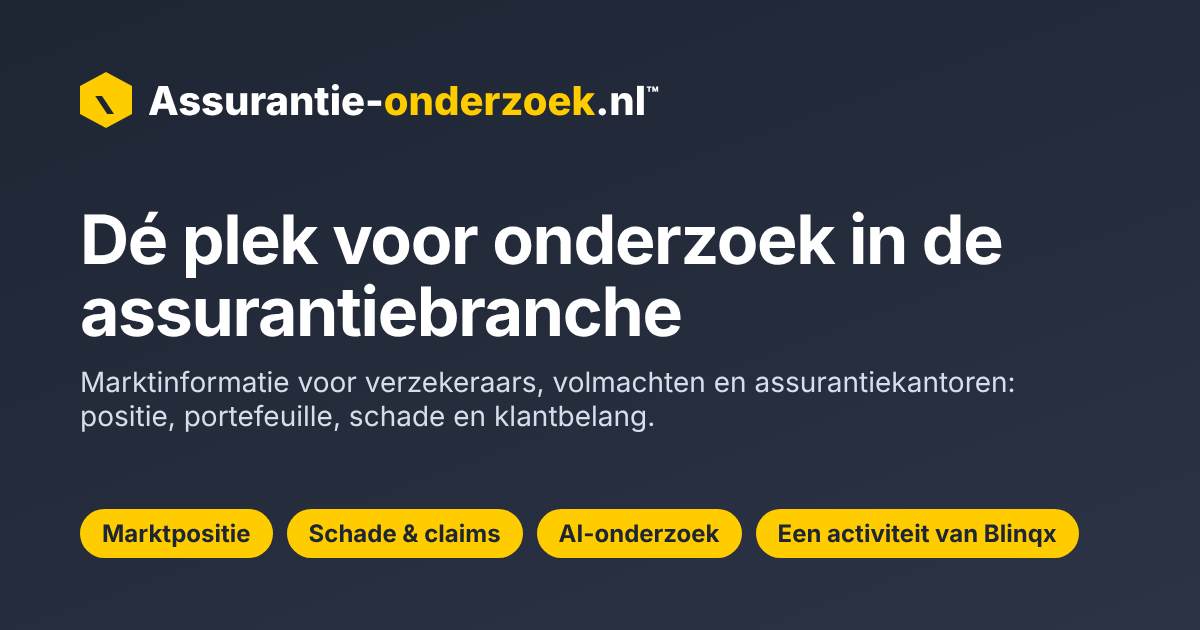
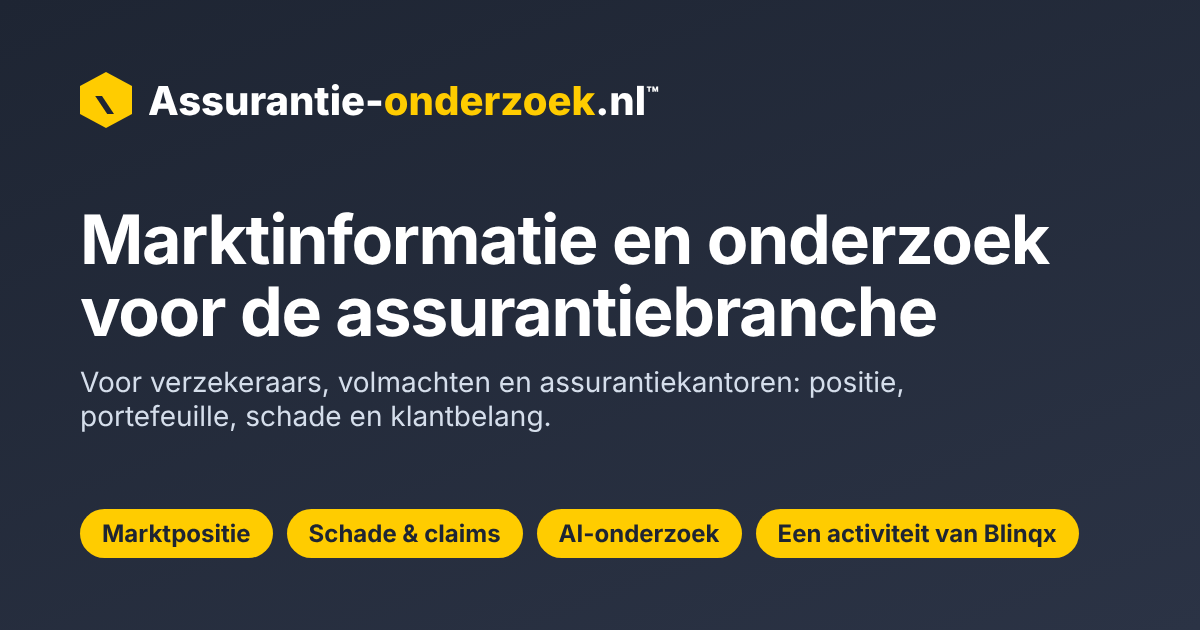
Juridische aanpassingen NL en EN
- Overeenkomsten, belangenafweging, DPIA en governance gemarkeerd als
  in voorbereiding; geen verwerking van klantdata voor onderzoek vóór afronding
- Gebruiksbeperking: geen loyaliteitsbeprijzing, margepersonalisatie of
  sturing van adviseurs (aanbod, FAQ, over ons, methodologie)
- Claims afgezwakt en onderbouwd: nieuwe kop, 'deelnemende kantoren',
  bereik vermeld in elk rapport; deelafbeelding aangepast
- Verwijzing naar NCRB verwijderd
- Privacyverklaring: doorgifte naar GitHub (VS) en waarborgen vermeld

Claude-Session: https://claude.ai/code/session_01XDsUczSqPzQvVV9yR37FUD

Changed region(s): [[0.0617, 0.3317, 0.8942, 0.5429], [0.0617, 0.573, 0.8325, 0.6937]]

diff --git a/en/index.html b/en/index.html
@@ -313,9 +313,9 @@ h1,h2,h3{overflow-wrap:break-word;hyphens:auto}
 <div class="hero">
   <div class="wrap">
     <span class="eyebrow">Market intelligence and research for the insurance sector</span>
-    <h1>The place to find everything about the Dutch insurance market.</h1>
+    <h1>Insight into the Dutch insurance market, from the advice channel.</h1>
     <p class="lead" style="color:#fff;font-weight:600;margin-bottom:12px">This is where you carry out benchmark research and analysis: see where you stand, by month, by line of business, by insurance intermediary and by customer profile. From quote and policy to claim notification and settlement.</p>
-    <p class="lead"><strong style="color:#ffcc00">We see quotes, applications, policies, policy changes and claim notifications from the intermediary channel</strong>, because insurance intermediaries and MGAs work with Blinqx's advice, administration and CRM software<span class="pn">, such as eBlinqx, DIAS, Premievergelijk and Blinqx Connect CRM</span>. Assurantie-onderzoek.nl is the research agency of Blinqx. We turn that data into management information: a one-off report, ongoing insight or bespoke research, including on claims handling and claims investigation.</p>
+    <p class="lead"><strong style="color:#ffcc00">We gain insight into quotes, applications, policies, policy changes and claim notifications from participating intermediaries and MGAs</strong>, which work with Blinqx's advice, administration and CRM software<span class="pn">, such as eBlinqx, DIAS, Premievergelijk and Blinqx Connect CRM</span>. Assurantie-onderzoek.nl is the research agency of Blinqx. We turn that data into management information: a one-off report, ongoing insight or bespoke research, including on claims handling and claims investigation. Every report states its coverage: the number of intermediaries, policies and claim notifications it is based on.</p>
     <div class="ctas">
       <a href="#aanbod" class="btn">View our products</a>
       <a href="sample-report.html" class="btn ghost">Sample report</a>
@@ -407,7 +407,7 @@ h1,h2,h3{overflow-wrap:break-word;hyphens:auto}
   <div class="wrap">
     <span class="eyebrow">Data from the source</span>
     <h2>Direct insight into quotes, policies and claims</h2>
-    <p class="intro">Assurantie-onderzoek.nl is an activity of Blinqx. Insurance intermediaries and MGAs use Blinqx's advice, administration and CRM software<span class="pn">: from Premievergelijk and Blinqx Connect CRM to eBlinqx Verzekering and eBlinqx Volmacht (formerly DIAS)</span>. This means we see what happens in the advice process before an application reaches an insurer, what becomes an in-force policy, and what happens when the customer reports a claim. What you receive is always aggregated and shows your own position against the market.</p>
+    <p class="intro">Assurantie-onderzoek.nl is an activity of Blinqx. Many insurance intermediaries and MGAs use Blinqx's advice, administration and CRM software<span class="pn">: from Premievergelijk and Blinqx Connect CRM to eBlinqx Verzekering and eBlinqx Volmacht (formerly DIAS)</span>. For participating intermediaries and MGAs, this means we see what happens in the advice process before an application reaches an insurer, what becomes an in-force policy, and what happens when the customer reports a claim. What you receive is always aggregated and shows your own position against the market.</p>
     <div class="flow" aria-label="From customer to insurer">
       <div class="step">Customer</div><div class="arr">→</div>
       <div class="step">Insurance intermediary</div><div class="arr">→</div>
@@ -593,7 +593,7 @@ h1,h2,h3{overflow-wrap:break-word;hyphens:auto}
       <div class="card feat"><div class="num">2</div><h3>Investigation monitor</h3><p>How often you start an investigation into the cause of loss or a claims investigation, in which lines of business and at which claim amounts, and how often that leads to a different outcome. Always at portfolio level.</p></div>
       <div class="card feat"><div class="num">3</div><h3>Signals at portfolio level</h3><p>Patterns in repeat claims, notifications shortly after the policy start date and unusual claims frequencies per segment. A tool for your fraud policy, not a judgement on an individual claim.</p></div>
     </div>
-    <div class="callout"><strong>Scope.</strong> Assurantie-onderzoek.nl does not carry out personal investigations into individual policyholders and does not give a judgement on individual claims. We provide aggregated insights into the claims and investigation process. For investigation in an individual file, we refer you to a licensed investigation agency, for example for digital fact-finding in open sources (such as <a href="https://www.ncrb.nl/nl/diensten/verzekeringsonderzoek/" target="_blank" rel="noopener">NCRB</a>), or to a loss adjuster.</div>
+    <div class="callout"><strong>Scope.</strong> Assurantie-onderzoek.nl does not carry out personal investigations into individual policyholders and does not give a judgement on individual claims. We provide aggregated insights into the claims and investigation process. For investigation in an individual file, we refer you to a licensed investigation agency, or to a loss adjuster.</div>
     <p class="rub"><a class="btn offerte" href="?onderwerp=Claims%20benchmark#contact" data-offerte="Claims benchmark">Request a quote for a claims benchmark</a></p>
   </div>
 </section>
@@ -715,6 +715,7 @@ h1,h2,h3{overflow-wrap:break-word;hyphens:auto}
         <a class="btn offerte" href="?onderwerp=Network%20subscription#contact" data-offerte="Network subscription">Request a quote</a>
       </div>
     </div>
+    <div class="callout"><strong>Terms of use.</strong> Our insights are intended to support customer interest. The licence states that clients will not use them for loyalty penalties (higher premiums for long-standing customers without a risk-based reason), for margin personalisation, or to steer or reward advisers based on their production with an insurer.</div>
   </div>
 </section>
 
@@ -778,7 +779,7 @@ h1,h2,h3{overflow-wrap:break-word;hyphens:auto}
     </div>
     <h3 style="margin:32px 0 12px;font-size:1.15rem">Frequently asked questions from procurement and compliance</h3>
     <div class="faq">
-      <details><summary>What may we do with the data and reports?</summary><p>Usage is set out in a licence agreement with the quote. As standard, this is for internal use within your organisation, without further distribution to third parties.</p></details>
+      <details><summary>What may we do with the data and reports?</summary><p>Usage is set out in a licence agreement with the quote. As standard, this is for internal use within your organisation, without further distribution to third parties. Use for loyalty penalties, margin personalisation or steering advisers is excluded.</p></details>
       <details><summary>Do you investigate individual claims or policyholders?</summary><p>No. We provide aggregated insights into the claims and investigation process. Personal investigation in an individual file is outside the scope of our services.</p></details>
       <details><summary>How is information security arranged?</summary><p>With the quote, we complete your security and supplier questionnaire, and explain how hosting, access and logging are set up.</p></details>
       <details><summary>Do we get a data processing agreement?</summary><p>Our reports do not contain personal data of consumers. For the contact details of your employees, we conclude a data processing agreement where necessary.</p></details>

diff --git a/index.html b/index.html
@@ -310,9 +310,9 @@ h1,h2,h3{overflow-wrap:break-word;hyphens:auto}
 <div class="hero">
   <div class="wrap">
     <span class="eyebrow">Marktinformatie en onderzoek voor de assurantiebranche</span>
-    <h1>Dé plek waar u alles vindt over de assurantiemarkt.</h1>
+    <h1>Inzicht in de assurantiemarkt, vanuit het advies.</h1>
     <p class="lead" style="color:#fff;font-weight:600;margin-bottom:12px">Hier doet u benchmarkonderzoek en analyses: zie waar u staat, per maand, per branche, per assurantiekantoor en per klantprofiel. Van offerte en polis tot schademelding en afwikkeling.</p>
-    <p class="lead"><strong style="color:#ffcc00">Wij zien offertes, aanvragen, polissen, mutaties en schademeldingen uit het intermediaire kanaal</strong>, omdat assurantiekantoren en volmachtbedrijven werken met de advies-, administratie- en CRM-software van Blinqx<span class="pn">, zoals eBlinqx, DIAS, Premievergelijk en Blinqx Connect CRM</span>. Assurantie-onderzoek.nl is het onderzoeksbureau van Blinqx. Wij maken van die data stuurinformatie: een eenmalig rapport, doorlopend inzicht of onderzoek op maat, ook over schadeafhandeling en claimonderzoek.</p>
+    <p class="lead"><strong style="color:#ffcc00">Wij krijgen inzicht in offertes, aanvragen, polissen, mutaties en schademeldingen van deelnemende kantoren en volmachten</strong>, die werken met de advies-, administratie- en CRM-software van Blinqx<span class="pn">, zoals eBlinqx, DIAS, Premievergelijk en Blinqx Connect CRM</span>. Assurantie-onderzoek.nl is het onderzoeksbureau van Blinqx. Wij maken van die data stuurinformatie: een eenmalig rapport, doorlopend inzicht of onderzoek op maat, ook over schadeafhandeling en claimonderzoek. Elk rapport vermeldt het bereik: het aantal kantoren, polissen en schademeldingen waarop het is gebaseerd.</p>
     <div class="ctas">
       <a href="#aanbod" class="btn">Bekijk het aanbod</a>
       <a href="voorbeeldrapport.html" class="btn ghost">Voorbeeldrapport</a>
@@ -404,7 +404,7 @@ h1,h2,h3{overflow-wrap:break-word;hyphens:auto}
   <div class="wrap">
     <span class="eyebrow">Data uit de bron</span>
     <h2>Direct inzicht in offertes, polissen en schades</h2>
-    <p class="intro">Assurantie-onderzoek.nl is een activiteit van Blinqx. Assurantiekantoren en volmachtbedrijven gebruiken de advies-, administratie- en CRM-software van Blinqx<span class="pn">: van Premievergelijk en Blinqx Connect CRM tot eBlinqx Verzekering en eBlinqx Volmacht (voorheen DIAS)</span>. Daardoor zien wij wat er in het advies gebeurt voordat een aanvraag bij een verzekeraar binnenkomt, wat er een lopende polis wordt, en wat er gebeurt als de klant schade meldt. Wat u ontvangt is altijd geaggregeerd en laat uw eigen positie tegenover de markt zien.</p>
+    <p class="intro">Assurantie-onderzoek.nl is een activiteit van Blinqx. Veel assurantiekantoren en volmachtbedrijven gebruiken de advies-, administratie- en CRM-software van Blinqx<span class="pn">: van Premievergelijk en Blinqx Connect CRM tot eBlinqx Verzekering en eBlinqx Volmacht (voorheen DIAS)</span>. Bij deelnemende kantoren en volmachten zien wij daardoor wat er in het advies gebeurt voordat een aanvraag bij een verzekeraar binnenkomt, wat er een lopende polis wordt, en wat er gebeurt als de klant schade meldt. Wat u ontvangt is altijd geaggregeerd en laat uw eigen positie tegenover de markt zien.</p>
     <div class="flow" aria-label="Van klant tot verzekeraar">
       <div class="step">Klant</div><div class="arr">→</div>
       <div class="step">Assurantiekantoor</div><div class="arr">→</div>
@@ -590,7 +590,7 @@ h1,h2,h3{overflow-wrap:break-word;hyphens:auto}
       <div class="card feat"><div class="num">2</div><h3>Onderzoeksmonitor</h3><p>Hoe vaak u een toedracht- of claimonderzoek start, in welke branches en bij welke schadebedragen, en hoe vaak dat tot een andere uitkomst leidt. Altijd op portefeuilleniveau.</p></div>
       <div class="card feat"><div class="num">3</div><h3>Signalen op portefeuilleniveau</h3><p>Patronen in herhaalclaims, meldingen kort na ingang van de polis en afwijkende schadefrequenties per segment. Een hulpmiddel voor uw fraudebeleid, geen oordeel over een individuele claim.</p></div>
     </div>
-    <div class="callout"><strong>Afbakening.</strong> Assurantie-onderzoek.nl doet geen persoonlijk onderzoek naar individuele verzekerden en geeft geen oordeel over individuele claims. Wij leveren geaggregeerde inzichten over het schade- en onderzoeksproces. Voor onderzoek in een individueel dossier verwijzen wij naar een vergunninghoudend onderzoeksbureau, bijvoorbeeld voor digitaal feitenonderzoek in open bronnen (zoals <a href="https://www.ncrb.nl/nl/diensten/verzekeringsonderzoek/" target="_blank" rel="noopener">NCRB</a>), of naar een schade-expert.</div>
+    <div class="callout"><strong>Afbakening.</strong> Assurantie-onderzoek.nl doet geen persoonlijk onderzoek naar individuele verzekerden en geeft geen oordeel over individuele claims. Wij leveren geaggregeerde inzichten over het schade- en onderzoeksproces. Voor onderzoek in een individueel dossier verwijzen wij naar een vergunninghoudend onderzoeksbureau, of naar een schade-expert.</div>
     <p class="rub"><a class="btn offerte" href="?onderwerp=Schadebenchmark#contact" data-offerte="Schadebenchmark">Offerte aanvragen voor een schadebenchmark</a></p>
   </div>
 </section>
@@ -712,6 +712,7 @@ h1,h2,h3{overflow-wrap:break-word;hyphens:auto}
         <a class="btn offerte" href="?onderwerp=Netwerkabonnement#contact" data-offerte="Netwerkabonnement">Offerte aanvragen</a>
       </div>
     </div>
+    <div class="callout"><strong>Gebruiksvoorwaarden.</strong> Onze inzichten zijn bedoeld om het klantbelang te onderbouwen. In de licentie leggen we vast dat afnemers ze niet gebruiken voor loyaliteitsbeprijzing (hogere premies voor trouwe klanten zonder risicogrond), voor margepersonalisatie, of om adviseurs te sturen of te belonen op basis van hun productie bij een maatschappij.</div>
   </div>
 </section>
 
@@ -775,7 +776,7 @@ h1,h2,h3{overflow-wrap:break-word;hyphens:auto}
     </div>
     <h3 style="margin:32px 0 12px;font-size:1.15rem">Veelgestelde vragen van inkoop en compliance</h3>
     <div class="faq">
-      <details><summary>Wat mogen wij met de data en rapporten doen?</summary><p>Het gebruik leggen we vast in een licentieovereenkomst bij de offerte. Standaard is dat voor intern gebruik binnen uw organisatie, zonder verdere verspreiding aan derden.</p></details>
+      <details><summary>Wat mogen wij met de data en rapporten doen?</summary><p>Het gebruik leggen we vast in een licentieovereenkomst bij de offerte. Standaard is dat voor intern gebruik binnen uw organisatie, zonder verdere verspreiding aan derden. Gebruik voor loyaliteitsbeprijzing, margepersonalisatie of het sturen van adviseurs is uitgesloten.</p></details>
       <details><summary>Doet u onderzoek naar individuele claims of verzekerden?</summary><p>Nee. Wij leveren geaggregeerde inzichten over het schade- en onderzoeksproces. Persoonlijk onderzoek in een individueel dossier valt buiten ons aanbod.</p></details>
       <details><summary>Hoe is de informatiebeveiliging geregeld?</summary><p>Bij de offerte vullen wij uw security- en leveranciersvragenlijst in, en lichten we toe hoe hosting, toegang en logging zijn ingericht.</p></details>
       <details><summary>Krijgen wij een verwerkersovereenkomst?</summary><p>Onze rapportages bevatten geen persoonsgegevens van consumenten. Voor de contactgegevens van uw medewerkers sluiten we waar nodig een verwerkersovereenkomst af.</p></details>

diff --git a/over-ons.html b/over-ons.html
@@ -15,6 +15,7 @@ html.ok #gate{display:none!important}
 #gate button{width:100%;font:inherit;font-weight:700;background:#ffcc00;color:#1e2533;border:0;border-radius:999px;padding:11px 16px;cursor:pointer}
 #gate .gerr{color:#c0392b;font-size:.88rem;min-height:1.2em;margin:10px 0 0}
 .tm{font-size:.5em;vertical-align:super;line-height:0;margin-left:1px;font-weight:700}
+.concept{border-left:4px solid #e0a800;background:var(--orange-soft)!important}
 </style>
 <script>try{if(sessionStorage.getItem('ao_ok')==='1')document.documentElement.classList.add('ok')}catch(e){}</script>
 
@@ -295,11 +296,11 @@ h1,h2,h3{overflow-wrap:break-word;hyphens:auto}
   <p>Assurantie-onderzoek.nl is de zustersite van <a href="https://jeroen-o.github.io/hypotheekonderzoek.nl/" target="_blank" rel="noopener">hypotheekonderzoek.nl</a>, dat hetzelfde doet voor de hypotheekmarkt.</p>
 
   <h2>Ons doel</h2>
-  <p class="box" style="font-size:1.15rem;font-weight:700;color:var(--navy)">Dé plek waar u alles vindt over de assurantiemarkt, en waar u volledig benchmarkonderzoek en analyses kunt doen.</p>
+  <p class="box" style="font-size:1.15rem;font-weight:700;color:var(--navy)">Betrouwbare marktinformatie over de assurantiemarkt, vanuit het advies, waarmee u uw positie onderbouwd kunt vergelijken.</p>
 
   <h2>Hoe wij werken</h2>
   <div class="team" style="grid-template-columns:repeat(2,1fr)" id="werkwijze">
-    <div class="card cat"><h3>Onafhankelijk</h3><ul><li>Het onderzoeksteam werkt los van de commerciële afdelingen van Blinqx</li><li>Geen afnemer krijgt voorrang of invloed op de uitkomsten van een ander</li><li>Een onafhankelijke adviesraad toetst onze methodologie en publicaties (zie <a href="#governance">governance</a>)</li></ul></div>
+    <div class="card cat"><h3>Onafhankelijk</h3><ul><li>Het onderzoeksteam werkt los van de commerciële afdelingen van Blinqx</li><li>Geen afnemer krijgt voorrang of invloed op de uitkomsten van een ander</li><li>Een onafhankelijke adviesraad gaat onze methodologie en publicaties toetsen (in voorbereiding, zie <a href="#governance">governance</a>)</li></ul></div>
     <div class="card cat"><h3>Zorgvuldig met data</h3><ul><li>Alleen geaggregeerde cijfers, niet herleidbaar tot klanten of adviseurs</li><li>Geen medische of strafrechtelijke gegevens</li><li>Vastgelegde methodologie en datakwaliteitscontroles</li></ul></div>
     <div class="card cat"><h3>Eerlijke concurrentie</h3><ul><li>U ziet uw eigen positie, nooit cijfers van individuele concurrenten</li><li>Vergelijkingsgroepen van minstens vijf partijen</li><li>Premies alleen als bandbreedte en achteraf</li></ul></div>
     <div class="card cat"><h3>Iets terug voor kantoren</h3><ul><li>Kantoren krijgen inzicht in hun eigen portefeuille via het adviseursabonnement</li><li>Uitkomsten van de adviseursenquête worden met de deelnemers gedeeld</li><li>Marktbrede trends in de openbare Assurantiemonitor</li></ul></div>
@@ -307,6 +308,7 @@ h1,h2,h3{overflow-wrap:break-word;hyphens:auto}
   <p style="margin-top:14px"><a href="methodologie.html">Lees onze methodologie</a> · <a href="regelgeving.html">Regelgeving &amp; toezicht</a> · <a href="index.html#methode">Mededinging en privacy</a></p>
 
   <h2 id="governance">Governance</h2>
+  <p class="box concept"><strong>Status.</strong> De overeenkomsten met deelnemende kantoren en volmachten, de belangenafweging, de DPIA en de governance hieronder (adviesraad, privacy officer, compliance officer) zijn in voorbereiding. Wij leveren pas rapportages op basis van klantdata als deze zijn afgerond.</p>
   <p>Assurantie-onderzoek.nl werkt met data uit de software die Blinqx levert aan kantoren en volmachten, en verkoopt inzichten aan verzekeraars. Daarom hebben we de onafhankelijkheid, de omgang met data en de mededinging vast georganiseerd.</p>
   <div class="tablewrap"><table class="eba">
     <thead><tr><th>Orgaan of rol</th><th>Taak</th></tr></thead>
@@ -320,6 +322,7 @@ h1,h2,h3{overflow-wrap:break-word;hyphens:auto}
   </table></div>
   <h3>Vaste afspraken</h3>
   <ul>
+    <li><b>Gebruiksbeperking.</b> Afnemers mogen onze inzichten niet gebruiken voor loyaliteitsbeprijzing, margepersonalisatie of het sturen en belonen van adviseurs. Dit staat in de licentie.</li>
     <li><b>Scheiding van functies.</b> Commerciële teams van Blinqx hebben geen toegang tot rapportages van afnemers of tot de onderliggende data.</li>
     <li><b>Geen invloed van afnemers.</b> Een verzekeraar kan de uitkomsten, de vergelijkingsgroepen of de methodologie niet beïnvloeden, en krijgt geen inzage in rapportages van andere afnemers.</li>
     <li><b>Geen invloed op het advies.</b> Onze inzichten worden niet gebruikt om adviseurs in de software of in de premievergelijking richting een maatschappij te sturen. Er is geen vergoeding per aanvraag, polis of kantoor.</li>

diff --git a/en/about.html b/en/about.html
@@ -15,6 +15,7 @@ html.ok #gate{display:none!important}
 #gate button{width:100%;font:inherit;font-weight:700;background:#ffcc00;color:#1e2533;border:0;border-radius:999px;padding:11px 16px;cursor:pointer}
 #gate .gerr{color:#c0392b;font-size:.88rem;min-height:1.2em;margin:10px 0 0}
 .tm{font-size:.5em;vertical-align:super;line-height:0;margin-left:1px;font-weight:700}
+.concept{border-left:4px solid #e0a800;background:var(--orange-soft)!important}
 </style>
 <script>try{if(sessionStorage.getItem('ao_ok')==='1')document.documentElement.classList.add('ok')}catch(e){}</script>
 
@@ -296,11 +297,11 @@ h1,h2,h3{overflow-wrap:break-word;hyphens:auto}
   <p>Assurantie-onderzoek.nl is the sister site of <a href="https://jeroen-o.github.io/hypotheekonderzoek.nl/" target="_blank" rel="noopener">hypotheekonderzoek.nl</a>, which does the same for the mortgage market.</p>
 
   <h2>Our aim</h2>
-  <p class="box" style="font-size:1.15rem;font-weight:700;color:var(--navy)">The place where you find everything about the insurance market, and where you can carry out full benchmark research and analyses.</p>
+  <p class="box" style="font-size:1.15rem;font-weight:700;color:var(--navy)">Reliable market information on the insurance market, from the advice channel, so you can compare your position on a sound basis.</p>
 
   <h2>How we work</h2>
   <div class="team" style="grid-template-columns:repeat(2,1fr)" id="werkwijze">
-    <div class="card cat"><h3>Independent</h3><ul><li>The research team works separately from the commercial departments of Blinqx</li><li>No client is given priority over, or influence on, the results of another</li><li>An independent advisory board reviews our methodology and publications (see <a href="#governance">governance</a>)</li></ul></div>
+    <div class="card cat"><h3>Independent</h3><ul><li>The research team works separately from the commercial departments of Blinqx</li><li>No client is given priority over, or influence on, the results of another</li><li>An independent advisory board will review our methodology and publications (in preparation, see <a href="#governance">governance</a>)</li></ul></div>
     <div class="card cat"><h3>Careful with data</h3><ul><li>Aggregated figures only, not traceable to customers or advisers</li><li>No medical or criminal-record data</li><li>Documented methodology and data quality checks</li></ul></div>
     <div class="card cat"><h3>Fair competition</h3><ul><li>You see your own position, never figures of individual competitors</li><li>Comparison groups of at least five parties</li><li>Premiums only as a range and after the fact</li></ul></div>
     <div class="card cat"><h3>Something in return for intermediaries</h3><ul><li>Intermediaries get insight into their own portfolio through the adviser subscription</li><li>Results of the adviser survey are shared with the participants</li><li>Market-wide trends in the public Insurance Monitor</li></ul></div>
@@ -308,6 +309,7 @@ h1,h2,h3{overflow-wrap:break-word;hyphens:auto}
   <p style="margin-top:14px"><a href="methodology.html">Read our methodology</a> · <a href="regulation.html">Regulation &amp; supervision</a> · <a href="index.html#methode">Competition and privacy</a></p>
 
   <h2 id="governance">Governance</h2>
+  <p class="box concept"><strong>Status.</strong> The agreements with participating intermediaries and MGAs, the balancing test, the DPIA and the governance below (advisory board, privacy officer, competition compliance officer) are in preparation. We will only deliver reports based on customer data once these are in place.</p>
   <p>Assurantie-onderzoek.nl works with data from the software that Blinqx supplies to intermediaries and MGAs, and sells insights to insurers. That is why we have put firm arrangements in place for independence, the handling of data and competition.</p>
   <div class="tablewrap"><table class="eba">
     <thead><tr><th>Body or role</th><th>Responsibility</th></tr></thead>
@@ -321,6 +323,7 @@ h1,h2,h3{overflow-wrap:break-word;hyphens:auto}
   </table></div>
   <h3>Standing arrangements</h3>
   <ul>
+    <li><b>Use restriction.</b> Clients may not use our insights for loyalty penalties, margin personalisation or steering and rewarding advisers. This is set out in the licence.</li>
     <li><b>Separation of functions.</b> Commercial teams of Blinqx have no access to client reports or to the underlying data.</li>
     <li><b>No influence by clients.</b> An insurer cannot influence the results, the comparison groups or the methodology, and has no access to reports of other clients.</li>
     <li><b>No influence on advice.</b> Our insights are not used to steer advisers in the software or in the premium comparison towards an insurer. There is no fee per application, policy or intermediary.</li>

diff --git a/privacy.html b/privacy.html
@@ -331,14 +331,14 @@ h1,h2,h3{overflow-wrap:break-word;hyphens:auto}
   <p>Niet langer dan nodig voor het doel waarvoor u ze verstrekte. Contactgegevens en berichten bewaren wij maximaal 2 jaar na het laatste contact, tenzij u klant wordt of een wettelijke bewaarplicht geldt. Een aanmelding voor de Assurantiemonitor bewaren wij tot u zich afmeldt.</p>
 
   <h2 id="p6">6. Data in onze rapportages</h2>
-  <p>Onze rapportages bevatten uitsluitend geaggregeerde gegevens die niet herleidbaar zijn tot individuele klanten, verzekerden of adviseurs. Segmenten met minder dan 25 waarnemingen worden niet getoond. Het assurantiekantoor of de volmacht is verwerkingsverantwoordelijke voor het klantdossier. Het gebruik van dossierdata voor geaggregeerd marktonderzoek wordt vastgelegd in een overeenkomst met elke deelnemende partij, met afspraken over het doel, pseudonimisering vóór analyse, bewaartermijnen en een verbod op heridentificatie. De grondslag is het gerechtvaardigd belang (art. 6 lid 1 sub f AVG), onderbouwd met een belangenafweging en een DPIA. Bijzondere en strafrechtelijke persoonsgegevens gebruiken wij niet. Wij doen geen persoonlijk onderzoek naar individuele verzekerden. Zie ook onze <a href="methodologie.html#m8">methodologie</a>.</p>
+  <p>Onze rapportages bevatten uitsluitend geaggregeerde gegevens die niet herleidbaar zijn tot individuele klanten, verzekerden of adviseurs. Segmenten met minder dan 25 waarnemingen worden niet getoond. Het assurantiekantoor of de volmacht is verwerkingsverantwoordelijke voor het klantdossier. Het gebruik van dossierdata voor geaggregeerd marktonderzoek wordt vastgelegd in een overeenkomst met elke deelnemende partij, met afspraken over het doel, pseudonimisering vóór analyse, bewaartermijnen en een verbod op heridentificatie. De beoogde grondslag is het gerechtvaardigd belang (art. 6 lid 1 sub f AVG). De overeenkomsten, de belangenafweging en de DPIA zijn in voorbereiding; wij verwerken geen klantdata voor onderzoek voordat deze zijn afgerond. Bijzondere en strafrechtelijke persoonsgegevens gebruiken wij niet. Wij doen geen persoonlijk onderzoek naar individuele verzekerden. Zie ook onze <a href="methodologie.html#m8">methodologie</a>.</p>
 
   <h2 id="p7">7. Delen met derden</h2>
   <p>Wij verkopen uw gegevens niet. Wij delen ze alleen met dienstverleners die ons helpen, zoals voor e-mail en hosting, en alleen op basis van een verwerkersovereenkomst. Uw onderzoeksvraag publiceren wij alleen als u daar toestemming voor gaf, en dan zonder naam en organisatie.</p>
 
   <h2 id="p8">8. Cookies en hosting</h2>
   <p>Deze website plaatst geen cookies, gebruikt geen lokale opslag in uw browser en gebruikt geen tracking-, analyse- of marketingtools. Er worden geen lettertypen of scripts van externe partijen geladen.</p>
-  <p>De website wordt gehost via GitHub Pages. Zoals bij elke webserver kan de hostingpartij technische gegevens vastleggen, zoals uw IP-adres, voor de beveiliging en werking van de dienst. Zie de <a href="https://docs.github.com/en/site-policy/privacy-policies/github-general-privacy-statement" target="_blank" rel="noopener">privacyverklaring van GitHub</a>.</p>
+  <p>De website wordt gehost via GitHub Pages. Zoals bij elke webserver kan de hostingpartij technische gegevens vastleggen, zoals uw IP-adres, voor de beveiliging en werking van de dienst. GitHub, Inc. is gevestigd in de Verenigde Staten. Voor de doorgifte van deze gegevens naar de VS gelden passende waarborgen, zoals het EU-VS Data Privacy Framework of standaardcontractbepalingen. Zie de <a href="https://docs.github.com/en/site-policy/privacy-policies/github-general-privacy-statement" target="_blank" rel="noopener">privacyverklaring van GitHub</a>.</p>
 
   <h2 id="p9">9. Beveiliging</h2>
   <p>Wij nemen passende technische en organisatorische maatregelen om uw gegevens te beschermen tegen verlies en onrechtmatig gebruik. Alleen medewerkers die uw aanvraag behandelen, hebben toegang tot uw bericht.</p>

diff --git a/en/privacy.html b/en/privacy.html
@@ -332,14 +332,14 @@ h1,h2,h3{overflow-wrap:break-word;hyphens:auto}
   <p>No longer than necessary for the purpose for which you provided it. We keep contact details and messages for a maximum of 2 years after the last contact, unless you become a client or a statutory retention obligation applies. We keep a subscription to the Insurance Monitor until you unsubscribe.</p>
 
   <h2 id="p6">6. Data in our reports</h2>
-  <p>Our reports contain only aggregated data that cannot be traced to individual customers, policyholders or advisers. Segments with fewer than 25 observations are not shown. The insurance intermediary or MGA is the controller for the customer file. The use of file data for aggregated market research is laid down in an agreement with each participating party, with arrangements on the purpose, pseudonymisation before analysis, retention periods and a prohibition on re-identification. The legal basis is legitimate interest (Art. 6(1)(f) GDPR), supported by a balancing test and a DPIA. We do not use special categories of personal data or criminal-offence data. We do not carry out personal investigations into individual policyholders. See also our <a href="methodology.html#m8">methodology</a>.</p>
+  <p>Our reports contain only aggregated data that cannot be traced to individual customers, policyholders or advisers. Segments with fewer than 25 observations are not shown. The insurance intermediary or MGA is the controller for the customer file. The use of file data for aggregated market research will be laid down in an agreement with each participating party, with arrangements on the purpose, pseudonymisation before analysis, retention periods and a prohibition on re-identification. The intended legal basis is legitimate interest (Art. 6(1)(f) GDPR). The agreements, the balancing test and the DPIA are in preparation; we will not process customer data for research before these have been completed. We do not use special categories of personal data or criminal-offence data. We do not carry out personal investigations into individual policyholders. See also our <a href="methodology.html#m8">methodology</a>.</p>
 
   <h2 id="p7">7. Sharing with third parties</h2>
   <p>We do not sell your data. We share it only with service providers who help us, for example with email and hosting, and only on the basis of a data processing agreement. We publish your research question only if you gave consent for this, and then without name and organisation.</p>
 
   <h2 id="p8">8. Cookies and hosting</h2>
   <p>This website does not place cookies, does not use local storage in your browser and does not use tracking, analytics or marketing tools. No fonts or scripts from external parties are loaded.</p>
-  <p>The website is hosted via GitHub Pages. As with any web server, the hosting provider may record technical data, such as your IP address, for the security and operation of the service. See the <a href="https://docs.github.com/en/site-policy/privacy-policies/github-general-privacy-statement" target="_blank" rel="noopener">GitHub privacy statement</a>.</p>
+  <p>The website is hosted via GitHub Pages. As with any web server, the hosting provider may record technical data, such as your IP address, for the security and operation of the service. GitHub, Inc. is based in the United States. Transfers of this data to the US are covered by appropriate safeguards, such as the EU-US Data Privacy Framework or standard contractual clauses. See the <a href="https://docs.github.com/en/site-policy/privacy-policies/github-general-privacy-statement" target="_blank" rel="noopener">GitHub privacy statement</a>.</p>
 
   <h2 id="p9">9. Security</h2>
   <p>We take appropriate technical and organisational measures to protect your data against loss and unlawful use. Only staff who handle your request have access to your message.</p>

diff --git a/methodologie.html b/methodologie.html
@@ -392,8 +392,8 @@ h1,h2,h3{overflow-wrap:break-word;hyphens:auto}
   <ul>
     <li>Rapportages bevatten uitsluitend geaggregeerde gegevens, zonder persoonsgegevens van consumenten, ondernemers of adviseurs.</li>
     <li>Segmenten met minder dan 25 waarnemingen worden niet getoond.</li>
-    <li>Het kantoor of de volmacht is verwerkingsverantwoordelijke voor het klantdossier. Het gebruik van dossierdata voor geaggregeerd marktonderzoek wordt vastgelegd in een overeenkomst met elke deelnemende partij. Daarin staan het doel, de pseudonimisering vóór analyse, de bewaartermijnen en het verbod op heridentificatie.</li>
-    <li>De grondslag is het gerechtvaardigd belang (art. 6 lid 1 sub f AVG), onderbouwd met een belangenafweging en een DPIA.</li>
+    <li>Het kantoor of de volmacht is verwerkingsverantwoordelijke voor het klantdossier. Het gebruik van dossierdata voor geaggregeerd marktonderzoek wordt vastgelegd in een overeenkomst met elke deelnemende partij (in voorbereiding). Daarin komen het doel, de pseudonimisering vóór analyse, de bewaartermijnen en het verbod op heridentificatie.</li>
+    <li>De beoogde grondslag is het gerechtvaardigd belang (art. 6 lid 1 sub f AVG). De belangenafweging en de DPIA die dit moeten onderbouwen, zijn in voorbereiding. Wij verwerken geen klantdata voor onderzoek voordat deze zijn afgerond.</li>
     <li>Bijzondere persoonsgegevens, zoals gezondheidsgegevens, en strafrechtelijke persoonsgegevens gebruiken we niet.</li>
     <li>Onderliggende gegevens worden gepseudonimiseerd verwerkt en na 5 jaar geanonimiseerd of verwijderd.</li>
     <li>Leeftijd, inkomen, verzekerd bedrag en postcode worden alleen in klassen gerapporteerd.</li>
@@ -406,6 +406,7 @@ h1,h2,h3{overflow-wrap:break-word;hyphens:auto}
     <li>Premie-informatie komt alleen uit openbare bronnen en wordt getoond als bandbreedte, met een vertraging van minstens 4 weken.</li>
     <li>Er wordt geen informatie verstrekt over toekomstige of niet-openbare premies, provisies of acceptatiebeleid.</li>
     <li>Afnemers wisselen via Assurantie-onderzoek.nl geen informatie onderling uit.</li>
+    <li>Afnemers gebruiken de inzichten niet voor loyaliteitsbeprijzing, margepersonalisatie of het sturen van adviseurs (vastgelegd in de licentie).</li>
   </ul>
 
   <h2 id="m10">10. Beperkingen</h2>

diff --git a/en/methodology.html b/en/methodology.html
@@ -392,8 +392,8 @@ h1,h2,h3{overflow-wrap:break-word;hyphens:auto}
   <ul>
     <li>Reports contain only aggregated data, without personal data of consumers, business owners or advisers.</li>
     <li>Segments with fewer than 25 observations are not shown.</li>
-    <li>The intermediary or the MGA is the controller for the customer file. The use of file data for aggregated market research is laid down in an agreement with each participating party. This sets out the purpose, pseudonymisation prior to analysis, the retention periods and the prohibition on re-identification.</li>
-    <li>The legal basis is legitimate interest (Art. 6(1)(f) GDPR), supported by a balancing of interests and a DPIA.</li>
+    <li>The intermediary or the MGA is the controller for the customer file. The use of file data for aggregated market research will be laid down in an agreement with each participating party (in preparation). This will set out the purpose, pseudonymisation prior to analysis, the retention periods and the prohibition on re-identification.</li>
+    <li>The intended legal basis is legitimate interest (Art. 6(1)(f) GDPR). The balancing test and the DPIA to support this are in preparation. We will not process customer data for research before these have been completed.</li>
     <li>We do not use special categories of personal data, such as health data, or personal data relating to criminal convictions and offences.</li>
     <li>Underlying data is processed in pseudonymised form and anonymised or deleted after 5 years.</li>
     <li>Age, income, sum insured and postcode are reported only in bands.</li>
@@ -406,6 +406,7 @@ h1,h2,h3{overflow-wrap:break-word;hyphens:auto}
     <li>Premium information comes only from public sources and is shown as a range, with a delay of at least 4 weeks.</li>
     <li>No information is provided on future or non-public premiums, commissions or underwriting policy.</li>
     <li>Clients do not exchange information with one another through Assurantie-onderzoek.nl.</li>
+    <li>Clients do not use the insights for loyalty penalties, margin personalisation or steering advisers (set out in the licence).</li>
   </ul>
 
   <h2 id="m10">10. Limitations</h2>
